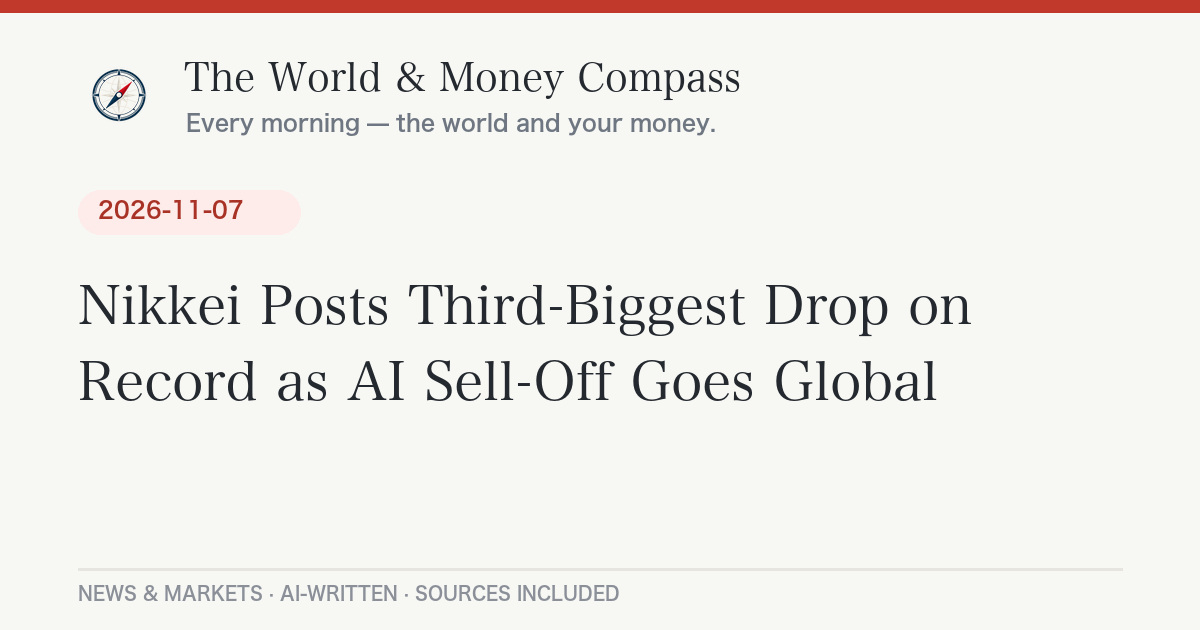
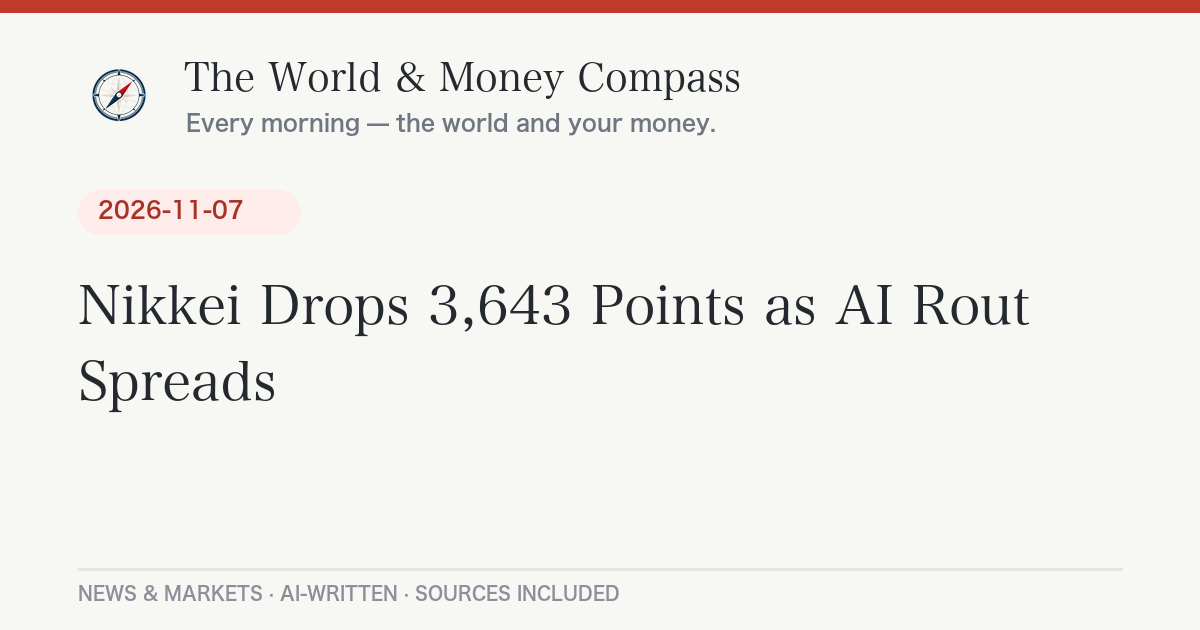
Daily briefing 2026-11-09

Changed region(s): [[0.0617, 0.573, 0.8017, 0.6635], [0.2158, 0.4524, 0.8633, 0.5429]]

diff --git a/_posts/2026-11-09-daily-briefing.md b/_posts/2026-11-09-daily-briefing.md
@@ -1,0 +1,99 @@
+---
+layout: post
+lang: ja
+title: "米中間選挙で民主党が大勝、日経平均は歴代3位の下げ幅｜11月9日のニュースとお金"
+date: 2026-11-09 07:37:26 +0900
+categories: [ニュース, 経済]
+headline: "米中間選挙で民主党大勝、AI株売りで日経平均は歴代3位の3643円安"
+permalink: /2026/11/09/daily-briefing/
+---
+
+## 今日のポイント
+
+アメリカの中間選挙で民主党が大きく勝ち、「AIやデータセンターへの投資ブームが減速するのでは」という不安が一気に広がりました。この不安がナスダックと東京市場の急落を招き、先週は世界の株式市場が大きく揺れました。一方、原油は中東情勢をにらんで週間で大きく下落しています。
+
+## 今日の羅針盤（Compass Insight）
+
+今回の急落は「政治の変化」が「ハイテク株の値付け」に直結した珍しい例です。選挙結果そのものより、市場が気にしたのは「AI・データセンター向けの規制や投資が今後遅くなるかもしれない」という見通しでした。つまり、高い期待を前提に膨らんでいた株価が、前提の揺らぎに敏感に反応した形です。
+
+家計への影響で言えば、日経平均に連動する投資信託や、新NISAで米国株・全世界株を持つ人は、評価額が一時的に大きく動いた可能性があります。ただ、1週間の値動きだけで慌てて売買するより、自分が決めた積立ペースと許容できる下落幅を確認することが先決です。一方で、円相場は1ドル=158円前後と円安水準にあり、輸入品や光熱費への影響は続きます。原油が下がれば、ガソリン・電気代には追い風になりえます。
+
+短期では、週明け月曜の東京市場が反発するか、さらに売られるかが焦点です。米国の長期金利の動きと、半導体株が戻りを維持できるかに注目しましょう。中長期では、新議会がAI関連の規制や予算にどう動くか、そして中東情勢で原油が再び上がらないかが大きな分かれ目になりそうです。特定の売買を勧めるものではなく、値動きの背景を整理するための視点です。
+
+## 今日のニュース
+
+### 日本
+- 日経平均株価は6日、前日比3,643円安の[5万7,434円77銭](https://kabutrack.com/news/market/2026/11/06/japan-stock-evening/)で取引を終えました。下げ幅は終値として歴代3位で、[NHK](https://news.web.nhk/newsweb/na/nd-20261106de71341)は米中間選挙で民主党が大勝したことでAI・半導体の先行きへの懸念が広がったと伝えています。
+- 東証プライム市場は33業種すべてが下落しました。値上がりは[約20銘柄、値下がりは1,518銘柄](https://kabutrack.com/news/market/2026/11/06/japan-stock-evening/)でした。
+- 9日は日越首脳会談が行われ、[重要鉱物や原子力での連携などを盛り込んだ共同声明を調整している](https://news.web.nhk/newsweb/na/nd-20261106de71341)とNHKが伝えています。
+
+### 世界
+- 原油価格は6日、米国とイランの軍事衝突が再燃するリスクと、外交的な打開への期待の間で揺れ、[週間で大きく下落](https://www.cnbc.com/2026/11/06/oil-price-today-brent-wti.html)しました。
+- ロシアとウクライナは10月27日から、南部オレシュキをめぐる[局地停戦](https://news.web.nhk/newsweb/na/nd-20261027de66070)を実施しました。停戦は11月1日夜に終わったとされ、双方が違反を主張しています。
+
+### アメリカ
+- 中間選挙で民主党が上院の主導権を握る見通しです。[CBSニュース](https://www.cbsnews.com/live-updates/senate-election-results-2026/)は、民主党が少なくとも54議席を確保し、アラスカとミシシッピは未確定だと報じています。
+- 下院でも[民主党が多数派を奪還した](https://www.foxnews.com/live-news/election-day-results-11-3-2026)と報じられています。
+
+### ヨーロッパ
+- ウクライナのゼレンスキー大統領は3日、ベルリンでドイツのメルツ首相らと会談しました。[戦争終結に向けた次の協議](https://kyivindependent.com/zelensky-to-visit-berlin-on-nov-3-says-german-chancellor-2/)を前に、支援や欧州の関与が話し合われたと伝えられています。
+
+## 経済とお金の動き
+
+### 世界の経済と原油・相場
+
+| 指標 | 水準 | 前日比・動き |
+|---|---|---|
+| 日経平均株価（11/6終値） | 57,434.77円 | <span class="chg-down">-3,643.13円（-5.96%）</span> |
+| S&P500（11/6終値） | 7,376.86 | <span class="chg-up">+23.13（+0.31%）</span> |
+| ナスダック総合（11/6） | 前日の急落から反発 | <span class="chg-up">+1.1%</span> |
+| NYダウ（11/6） | 雇用統計後の金利上昇で下落 | <span class="chg-down">-0.5%</span> |
+| WTI原油（11/6終値） | 90.83ドル/バレル | <span class="chg-up">+0.31ドル</span> |
+| ドル円（欧州中銀の基準レート11/6） | 158.33円 | － |
+
+出典の目安：日経平均は[KABUTRACK](https://kabutrack.com/news/market/2026/11/06/japan-stock-evening/)、S&P500・ナスダック・ダウは[Eurasia Business News](https://eurasiabusinessnews.com/2026/11/07/stock-market-today-ai-stocks-rebound-after-brutal-nasdaq-selloff/)、原油は[CNBC](https://www.cnbc.com/2026/11/06/oil-price-today-brent-wti.html)、為替は[frankfurter API](https://api.frankfurter.app/latest?from=USD&to=JPY)（基準日11月6日）です。
+
+アメリカ市場では、5日（木）にナスダックが約5.4％下げて調整局面入りし、S&P500は[4.4％下落](https://eurasiabusinessnews.com/2026/11/07/stock-market-today-ai-stocks-rebound-after-brutal-nasdaq-selloff/)しました。6日は半導体株を中心に反発したものの、週間ではS&P500が2.7％下げ、2025年4月以来の大きな週間下落となりました。
+
+原油はWTIが[90.83ドル](https://www.cnbc.com/2026/11/06/oil-price-today-brent-wti.html)、ブレントが98.32ドルで引けました。どちらも週間で約1割強の下落です。市場では米イラン間の戦闘再開リスクと外交的な解決への期待が綱引きしています。
+
+### アメリカの経済
+
+10月の雇用統計は、非農業部門の雇用者数が[16万5,000人増](https://www.marketscreener.com/news/wall-street-wraps-mixed-week-in-red-following-strong-jobs-report-ce785bdbd88aff2c)と、市場予想の5万9,000人増を大きく上回り、失業率は4.1％に下がりました。強い雇用は景気にはプラスですが、金利が高止まりしやすくなるため、株式市場には重しになる面もあります。
+
+### 日本の経済
+
+6日の日本市場では、ドル円が[158円台](https://kabutrack.com/news/market/2026/11/06/japan-stock-evening/)、新発10年国債利回りが2.629％でした。日経平均は寄り付きの6万円台から一時5万6,000円台まで下げ、値幅は3,600円超に達しました。一方、同じ日に三菱重工業が通期の業績予想を上方修正するなど、好決算を発表した企業もあります。
+
+## 今日の注目銘柄・セクター
+
+- **半導体・AI関連（アドバンテスト、東京エレクトロンなど）**：[日経平均を押し下げた主な銘柄](https://kabutrack.com/news/market/2026/11/06/japan-stock-evening/)に名前が挙がりました。AI投資の先行き懸念がそのまま売り材料になりました。
+- **ソフトバンクグループ**：同じく日経平均の主な下押し要因として挙げられました。AI関連への投資姿勢が株価の見方に影響しやすい銘柄です。
+- **三菱重工業**：6日に[2027年3月期の事業利益予想を5,400億円から6,000億円に上方修正](https://kabutrack.com/news/market/2026/11/06/japan-stock-evening/)しました。市場全体が崩れる中でも、業績で評価される例として注目されました。
+
+*※特定銘柄の売買を推奨するものではありません。投資判断はご自身の責任で。*
+
+## まとめ：注目の3つ
+
+1. 米中間選挙の民主党大勝が、AI・半導体株の急落につながった。
+2. 日経平均は歴代3位の下げ幅で5万7,000円台に。週明けの反発力が焦点。
+3. 原油は週間で急落。米イラン情勢と円安水準（158円台）の動きに注意。
+
+---
+<div class="post-sources" markdown="1">
+
+**出典：**
+- [NHK：日経平均株価 6万円割れ 値下がり幅は終値として過去3番目](https://news.web.nhk/newsweb/na/nd-20261106de71341)
+- [KABUTRACK：2026年11月6日 日本株夕刊](https://kabutrack.com/news/market/2026/11/06/japan-stock-evening/)
+- [Eurasia Business News：AI Stocks Rebound After Brutal Nasdaq Selloff](https://eurasiabusinessnews.com/2026/11/07/stock-market-today-ai-stocks-rebound-after-brutal-nasdaq-selloff/)
+- [MarketScreener：Wall Street Wraps Mixed Week in Red Following Strong Jobs Report](https://www.marketscreener.com/news/wall-street-wraps-mixed-week-in-red-following-strong-jobs-report-ce785bdbd88aff2c)
+- [CNBC：Oil price today: Brent, WTI](https://www.cnbc.com/2026/11/06/oil-price-today-brent-wti.html)
+- [CBS News：2026 Senate midterm election results](https://www.cbsnews.com/live-updates/senate-election-results-2026/)
+- [Fox News：Election Day results](https://www.foxnews.com/live-news/election-day-results-11-3-2026)
+- [NHK：ロシアとウクライナ局地停戦合意](https://news.web.nhk/newsweb/na/nd-20261027de66070)
+- [Kyiv Independent：Zelensky to visit Berlin on Nov. 3](https://kyivindependent.com/zelensky-to-visit-berlin-on-nov-3-says-german-chancellor-2/)
+- 市場データ: [frankfurter API](https://api.frankfurter.app/) ／ Yahoo Finance ほか
+
+*本記事は公開情報をもとに作成しています。*
+
+</div>

diff --git a/_posts/2026-11-09-daily-briefing-en.md b/_posts/2026-11-09-daily-briefing-en.md
@@ -1,0 +1,49 @@
+---
+layout: post
+lang: en
+title: "Democrats Win Big in Midterms, AI Stocks Rattle Markets — November 9, 2026"
+date: 2026-11-09 07:37:26 +0900
+headline: "Democrats win big in midterms as AI-stock fears rattle global markets"
+permalink: /2026/11/09/daily-briefing/
+---
+
+## Top U.S. Stories
+
+- Democrats are on track to control the Senate, with [CBS News projecting at least 54 seats](https://www.cbsnews.com/live-updates/senate-election-results-2026/); Alaska and Mississippi remain unresolved. *Why it matters:* A Democratic Senate gives the party real leverage over appointments, investigations and spending, which reshapes what the White House can pass.
+- [Fox News reports](https://www.foxnews.com/live-news/election-day-results-11-3-2026) Democrats also retook the House, framing the vote as a referendum on President Trump, gas prices and the war in Iran.
+- Wall Street's historic Thursday selloff: the [Nasdaq fell about 5.4% into correction and the S&P 500 dropped 4.4%](https://eurasiabusinessnews.com/2026/11/07/stock-market-today-ai-stocks-rebound-after-brutal-nasdaq-selloff/), as investors bet on a slower data-center buildout after the election. *Why it matters:* AI spending has underpinned much of the market's gains, so doubts about it hit chipmakers and infrastructure suppliers hardest.
+- Employers added [165,000 jobs in October versus 59,000 expected](https://www.marketscreener.com/news/wall-street-wraps-mixed-week-in-red-following-strong-jobs-report-ce785bdbd88aff2c), and unemployment fell to 4.1%. *Why it matters:* Strong hiring supports growth but can keep Treasury yields elevated, a headwind for stocks.
+- In Europe, Ukraine's Zelensky met German Chancellor Merz in Berlin on Nov. 3 ahead of [another round of peace talks](https://kyivindependent.com/zelensky-to-visit-berlin-on-nov-3-says-german-chancellor-2/).
+
+## Compass Insight
+
+This week showed how quickly politics can reprice a crowded trade. Markets were less worried about who won than about what the result might mean for AI and data-center spending, the theme carrying much of the rally. Friday's rebound in semiconductors was real but partial: the S&P 500 still posted its worst week since April 2025. In the short term, watch whether chip stocks hold their bounce and how Treasury yields react to the strong jobs data. Over the medium term, the key questions are how the new Congress approaches AI policy and funding, and whether Iran tensions send oil higher again. This is context, not a signal to trade.
+
+## Markets
+
+- S&P 500 closed at [7,376.86 (+0.31%)](https://eurasiabusinessnews.com/2026/11/07/stock-market-today-ai-stocks-rebound-after-brutal-nasdaq-selloff/) on Friday, down 2.7% for the week; the Nasdaq rose 1.1% and the Dow fell 0.5%.
+- Japan's Nikkei 225 [fell 5.96% to 57,434.77](https://kabutrack.com/news/market/2026/11/06/japan-stock-evening/), the third-largest closing drop on record per [NHK](https://news.web.nhk/newsweb/na/nd-20261106de71341).
+- Oil: [WTI settled at $90.83 and Brent at $98.32](https://www.cnbc.com/2026/11/06/oil-price-today-brent-wti.html), both sharply lower on the week as traders weigh U.S.-Iran fighting risk against diplomacy.
+- USD/JPY: [158.33 (ECB reference rate, Nov. 6)](https://api.frankfurter.app/latest?from=USD&to=JPY).
+
+## Stocks in Focus
+
+- **Semiconductors:** the [Philadelphia Semiconductor Index gained 4.2% Friday](https://eurasiabusinessnews.com/2026/11/07/stock-market-today-ai-stocks-rebound-after-brutal-nasdaq-selloff/) after Thursday's rout, leading the rebound.
+- **Mitsubishi Heavy Industries:** [raised its full-year profit forecast](https://kabutrack.com/news/market/2026/11/06/japan-stock-evening/) on Nov. 6 even as the Tokyo market tumbled.
+
+<div class="post-sources" markdown="1">
+
+**Sources:**
+- [CBS News: 2026 Senate midterm election results](https://www.cbsnews.com/live-updates/senate-election-results-2026/)
+- [Fox News: Election Day results](https://www.foxnews.com/live-news/election-day-results-11-3-2026)
+- [Eurasia Business News: AI Stocks Rebound After Brutal Nasdaq Selloff](https://eurasiabusinessnews.com/2026/11/07/stock-market-today-ai-stocks-rebound-after-brutal-nasdaq-selloff/)
+- [MarketScreener: Wall Street Wraps Mixed Week in Red](https://www.marketscreener.com/news/wall-street-wraps-mixed-week-in-red-following-strong-jobs-report-ce785bdbd88aff2c)
+- [CNBC: Oil price today: Brent, WTI](https://www.cnbc.com/2026/11/06/oil-price-today-brent-wti.html)
+- [NHK: Nikkei falls below 60,000](https://news.web.nhk/newsweb/na/nd-20261106de71341)
+- [KABUTRACK: Japan stocks evening report, Nov. 6](https://kabutrack.com/news/market/2026/11/06/japan-stock-evening/)
+- [Kyiv Independent: Zelensky to visit Berlin](https://kyivindependent.com/zelensky-to-visit-berlin-on-nov-3-says-german-chancellor-2/)
+- [frankfurter API](https://api.frankfurter.app/)
+
+</div>
+
+*Auto-generated and AI-written. Not investment advice.*
